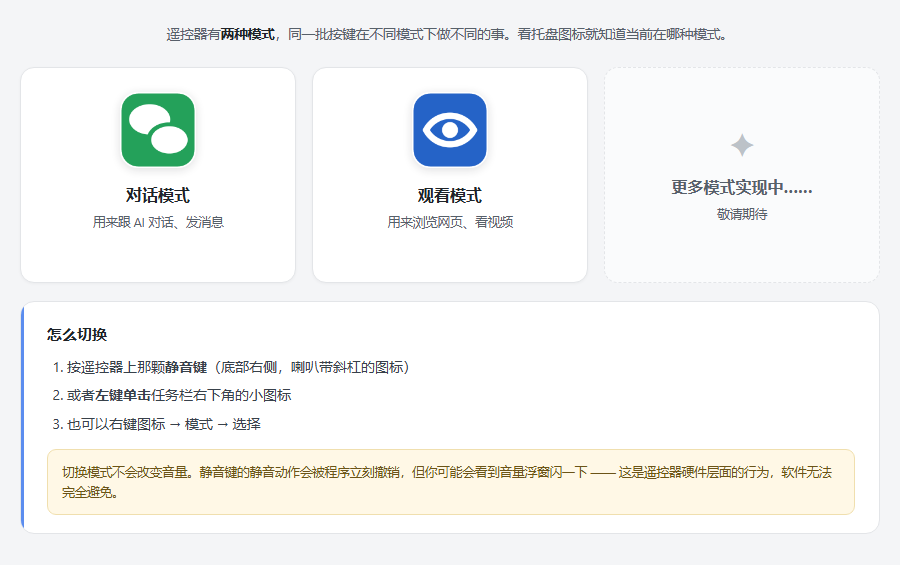
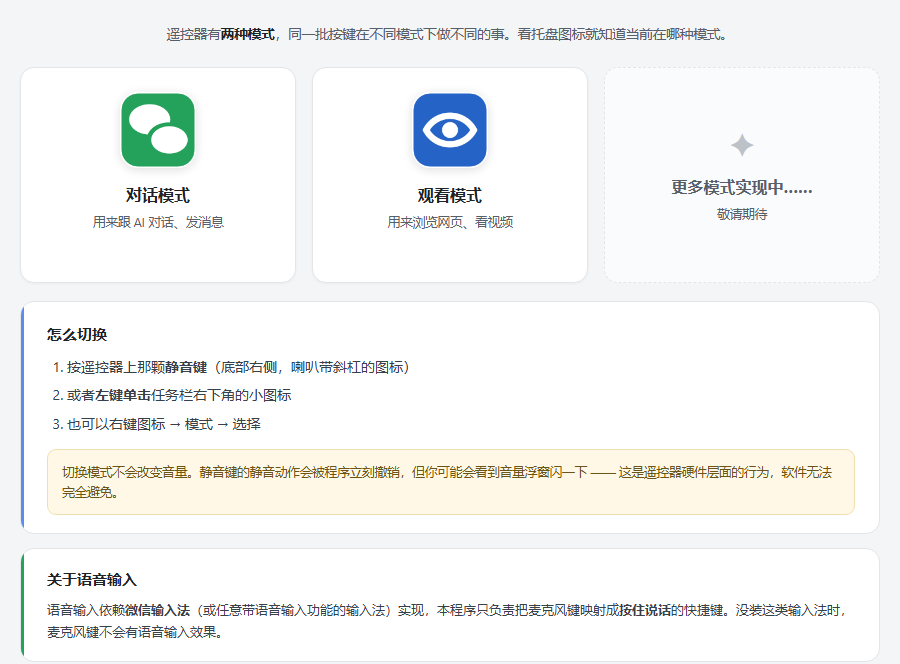
说明页补语音输入依赖输入法的说明，同步 README 截图

diff --git a/help.html b/help.html
@@ -70,6 +70,14 @@
   }
   .hint { margin-top:14px; padding:12px 14px; border-radius:9px;
           background:#fff8e6; border:1px solid #f0dfae; color:#6b5417; font-size:12.5px; }
+  .info-card {
+    position:relative; max-width:860px; background:#fff; border:1px solid var(--line);
+    border-radius:14px; padding:18px 24px 18px 26px; margin:14px auto 0; overflow:hidden;
+  }
+  .info-card::before { content:""; position:absolute; left:0; top:0; bottom:0;
+                       width:3px; background:#24A15A; }
+  .info-card h3 { margin:0 0 8px; font-size:15px; }
+  .info-card p { margin:0; color:#38414a; font-size:13px; line-height:1.7; }
 
   /* ---- 连线图 ---- */
   .stage {
@@ -256,6 +264,10 @@
         <li>也可以右键图标 → 模式 → 选择</li>
       </ol>
       <div class="hint">切换模式不会改变音量。静音键的静音动作会被程序立刻撤销，但你可能会看到音量浮窗闪一下 —— 这是遥控器硬件层面的行为，软件无法完全避免。</div>
+    </div>
+    <div class="info-card">
+      <h3>关于语音输入</h3>
+      <p>语音输入依赖<b>微信输入法</b>（或任意带语音输入功能的输入法）实现，本程序只负责把麦克风键映射成<b>按住说话</b>的快捷键。没装这类输入法时，麦克风键不会有语音输入效果。</p>
     </div>
   </section>
 

diff --git a/tools/make_help.py b/tools/make_help.py
@@ -220,6 +220,14 @@ TPL = """<!DOCTYPE html>
   }
   .hint { margin-top:14px; padding:12px 14px; border-radius:9px;
           background:#fff8e6; border:1px solid #f0dfae; color:#6b5417; font-size:12.5px; }
+  .info-card {
+    position:relative; max-width:860px; background:#fff; border:1px solid var(--line);
+    border-radius:14px; padding:18px 24px 18px 26px; margin:14px auto 0; overflow:hidden;
+  }
+  .info-card::before { content:""; position:absolute; left:0; top:0; bottom:0;
+                       width:3px; background:#24A15A; }
+  .info-card h3 { margin:0 0 8px; font-size:15px; }
+  .info-card p { margin:0; color:#38414a; font-size:13px; line-height:1.7; }
 
   /* ---- 连线图 ---- */
   .stage {
@@ -406,6 +414,10 @@ TPL = """<!DOCTYPE html>
         <li>也可以右键图标 → 模式 → 选择</li>
       </ol>
       <div class="hint">切换模式不会改变音量。静音键的静音动作会被程序立刻撤销，但你可能会看到音量浮窗闪一下 —— 这是遥控器硬件层面的行为，软件无法完全避免。</div>
+    </div>
+    <div class="info-card">
+      <h3>关于语音输入</h3>
+      <p>语音输入依赖<b>微信输入法</b>（或任意带语音输入功能的输入法）实现，本程序只负责把麦克风键映射成<b>按住说话</b>的快捷键。没装这类输入法时，麦克风键不会有语音输入效果。</p>
     </div>
   </section>
 
